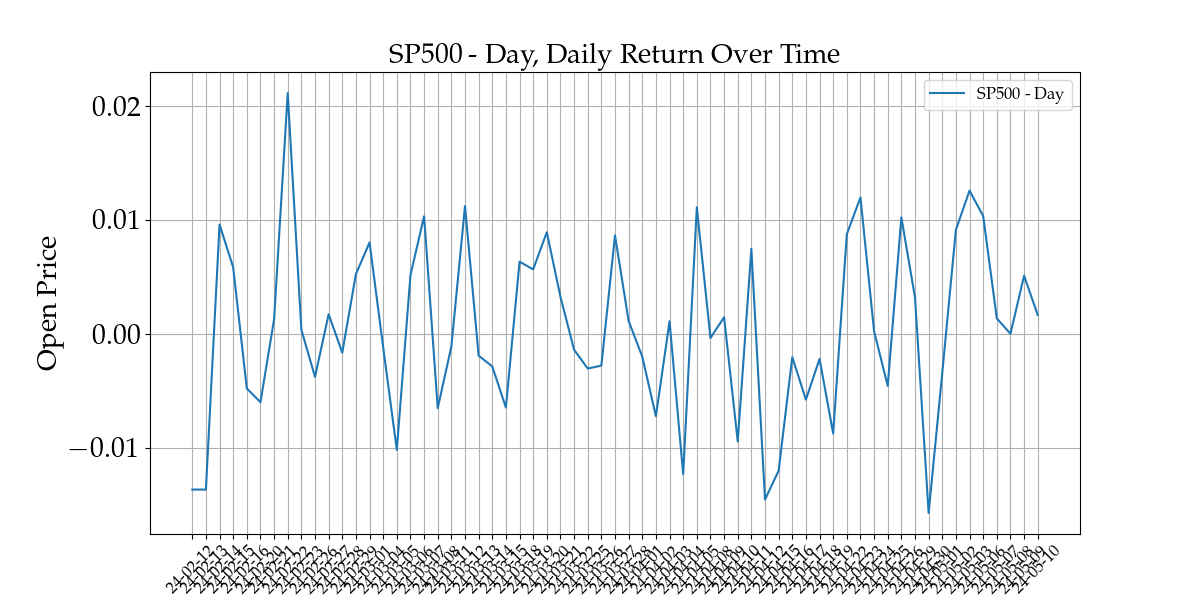
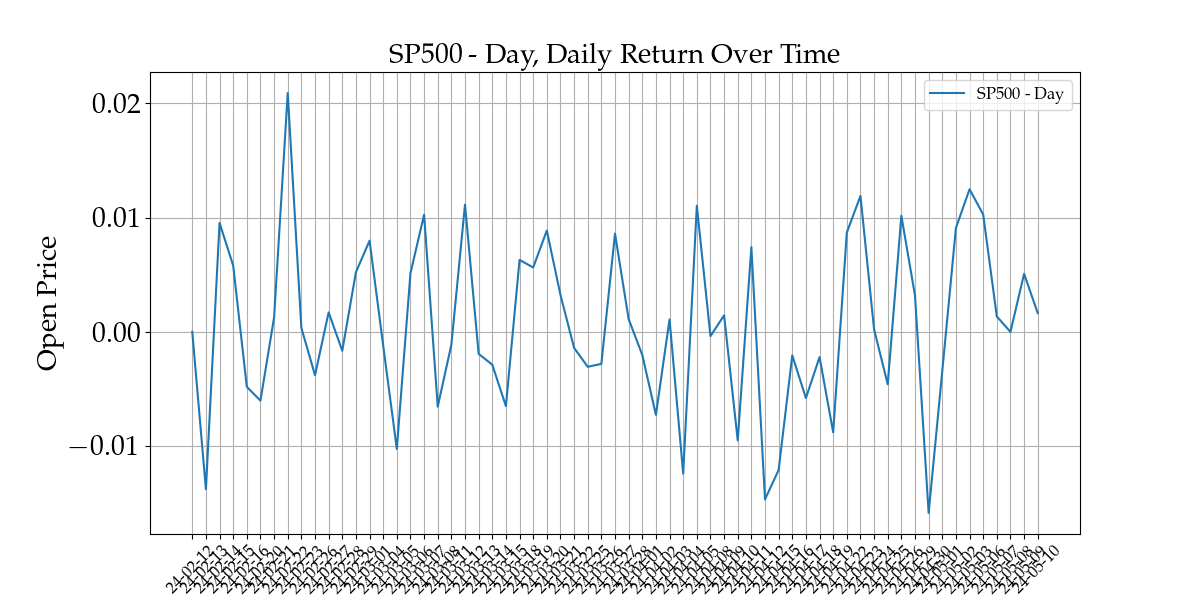
add daily log return as GPR input
add daily log return as GPR input

diff --git a/Multi-Input_GPR/main.py b/Multi-Input_GPR/main.py
@@ -261,7 +261,7 @@ class MultiInputGPR:
     # Fetch Train + Test data 
     def run_step_3(self) -> None:
         #1. Fetch the actual values of to-be-predicted stock data(e.g. APPL stock price)
-        X_AAPL_tf, Y_AAPL_tf, AAPL_dates, (AAPL_mean, AAPL_std), (x_mean, x_std) = self.data_handler.process_data("Stocks", self.ticker, "d", self.train_start_date, self.train_end_date, self.predict_Y, isFetch=True, isDenoised=False, isFiltered=True)
+        X_AAPL_tf, Y_AAPL_tf, AAPL_dates, (AAPL_mean, AAPL_std), (x_mean, x_std) = self.data_handler.process_data("Stocks", self.ticker, "d", self.train_start_date, self.train_end_date, self.predict_Y, isFetch=True, isDenoised=False, isFiltered=False)
         X_AAPL_full_tf, Y_AAPL_full_tf, AAPL_full_dates, (AAPL_full_mean, AAPL_full_std), (x_mean_full, x_std_full) = self.data_handler.process_data("Stocks", self.ticker, "d", self.train_start_date, self.test_end_date, "return", isFetch=True, isDenoised=False, isFiltered=False)
 
         #2. Fetch input data(e.g. Brent Oil / MSFT stock price)
@@ -271,13 +271,13 @@ class MultiInputGPR:
         X_full = []
         for feature in self.features:
             if feature == "Brent_Oil" or feature == "DXY" or feature == "XAU_USD":
-                X_tf, Y_tf, dates, (y_mean, y_std), (x_mean, x_std) = self.data_handler.process_data("Commodities", feature, "d", self.train_start_date, self.train_end_date, self.predict_Y, isFetch=False, isDenoised=False, isFiltered=True)
+                X_tf, Y_tf, dates, (y_mean, y_std), (x_mean, x_std) = self.data_handler.process_data("Commodities", feature, "d", self.train_start_date, self.train_end_date, self.predict_Y, isFetch=False, isDenoised=False, isFiltered=False)
                 X_full_tf, Y_full_tf, full_dates, (y_full_mean, y_full_std), (x_full_mean, x_full_std)= self.data_handler.process_data("Commodities", feature, "d", self.train_start_date, self.test_end_date, "return", isFetch=False, isDenoised=False, isFiltered=False)
             elif feature == "SP500" or feature == "NasDaq100":
-                X_tf, Y_tf, dates, (y_mean, y_std), (x_mean, x_std) = self.data_handler.process_data("Stocks/index", feature, "d", self.train_start_date, self.train_end_date, self.predict_Y, isFetch=False, isDenoised=False, isFiltered=True)
+                X_tf, Y_tf, dates, (y_mean, y_std), (x_mean, x_std) = self.data_handler.process_data("Stocks/index", feature, "d", self.train_start_date, self.train_end_date, self.predict_Y, isFetch=False, isDenoised=False, isFiltered=False)
                 X_full_tf, Y_full_tf, full_dates, (y_full_mean, y_full_std), (x_full_mean, x_full_std) = self.data_handler.process_data("Stocks/Index", feature, "d", self.train_start_date, self.test_end_date, "return", isFetch=False, isDenoised=False, isFiltered=False)
             else:
-                X_tf, Y_tf, dates, (y_mean, y_std), (x_mean, x_std) = self.data_handler.process_data("Stocks", feature, "d", self.train_start_date, self.train_end_date, self.predict_Y, isFetch=True, isDenoised=False, isFiltered=True)
+                X_tf, Y_tf, dates, (y_mean, y_std), (x_mean, x_std) = self.data_handler.process_data("Stocks", feature, "d", self.train_start_date, self.train_end_date, self.predict_Y, isFetch=True, isDenoised=False, isFiltered=False)
                 X_full_tf, Y_full_tf, full_dates, (y_full_mean, y_full_std), (x_full_mean, x_full_std) = self.data_handler.process_data("Stocks", feature, "d", self.train_start_date, self.test_end_date, "return", isFetch=True, isDenoised=False, isFiltered=False)
             visualizer = Visualizer()
             visualizer.plot_data(X_tf, Y_tf, dates, title=f'{feature} - Day', mean=y_mean, std=y_std, filename=f'../plots/multi-input/{feature}_Day.png')
@@ -380,7 +380,7 @@ if __name__ == "__main__":
     portolio_assets = [ticker1, ticker2, ticker3, ticker4, ticker5]
 
     timeframes = ['d', 'w', 'm']
-    predict_Y = 'return'
+    predict_Y = 'daily_log_return'
 
     # Risk-free rate (daily)
     risk_free_rate = 0.01 / 252  

diff --git a/Multi-Input_GPR/utils/data_handler.py b/Multi-Input_GPR/utils/data_handler.py
@@ -86,7 +86,8 @@ class DataHandler:
         first_return = df['return'].iloc[1]
         df.fillna({'return': first_return}, inplace=True)
         df['intraday_return'] = (df['close'] - df['open']) / df['open']
-        df['log_return'] = np.log(df['close'] / df['close'].shift(1))
+        df['daily_log_return'] = np.log(df['close'] / df['close'].shift(1))
+        df['daily_log_return'].fillna(0, inplace=True)
 
         ########################################
         ### Don't Touch The Original Data!!!
